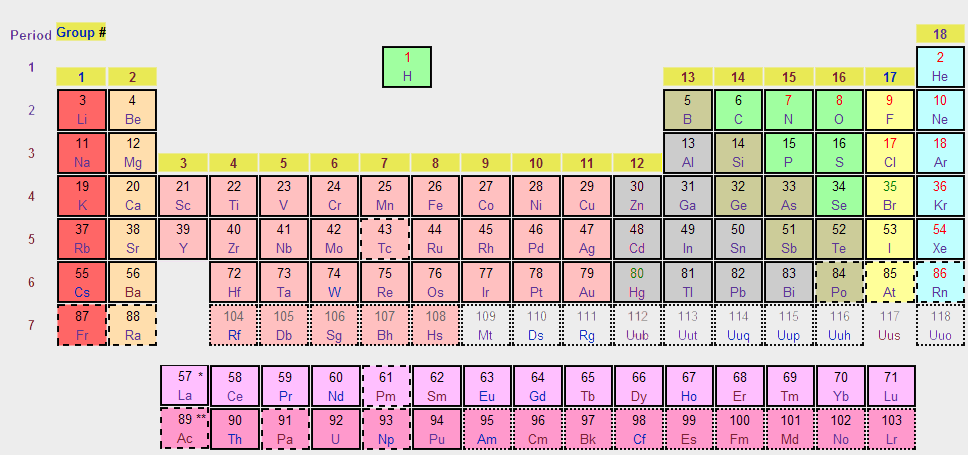
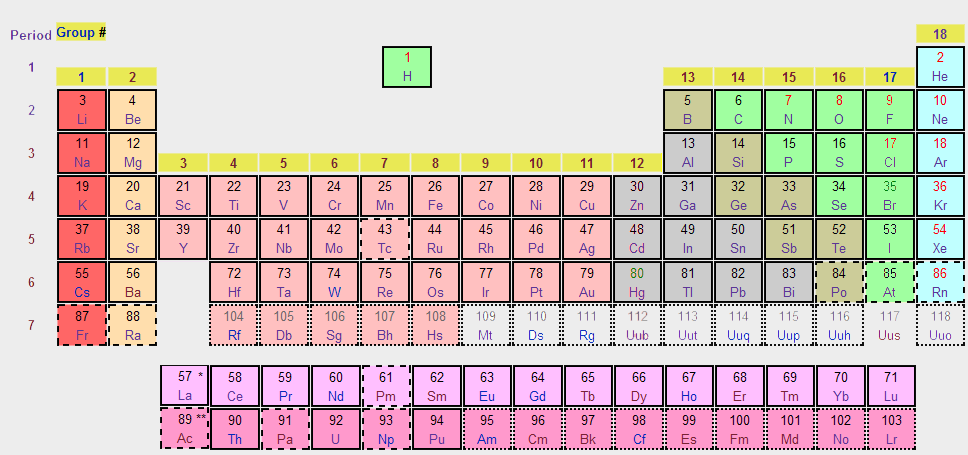
Add files via upload

Changed region(s): [[0.8678, 0.1846, 0.9607, 0.6769]]

diff --git a/help.html b/help.html
@@ -17,35 +17,35 @@
       #colors li {
         display: block;
       }
-      #OJ{
-        background-color: #FFB600;
+      #am{
+        background-color: #FF6661;
       }
-      #YELLATME{
-        background-color: #F3FF00;
+      #aem{
+        background-color: #FFDCAC;
       }
-      #FISHYUM{
-        background-color: #FF928E;
+      #l{
+        background-color: #E3B3E1;
       }
-      #PURPLENURPLE{
-        background-color: #E68EC3;
+      #a{
+        background-color: #F89CCB;
       }
-      #OWWWW{
-        background-color: #BF9197;
+      #tm{
+        background-color: #FFC4C4;
       }
-      #DOUBLEWHAMMYBRO{
-        background-color: #55C2A7;
+      #ptm{
+        background-color: #CFCFD1;
       }
-      #GRASSWINKWINK{
-        background-color: #1DB835;
+      #m{
+        background-color: #CBCD9B;
       }
-      #MYEYESHURT{
-        background-color: #54CC8B;
+      #om{
+        background-color: #9FFDAA;
       }
-      #BLURB{
-        background-color: #17BCC2;
+      #ng{
+        background-color: #B9FAF8;
       }
-      #AAAOAOOOOOOWWWWWWIIIIIIEEE{
-        background-color: #8A8179;
+      #u{
+        background-color: #F1EFF2;
       }
     </style>
   </head>
@@ -73,43 +73,43 @@
       <article name="colors" id="colors">
         <ul>
           <li>
-            <div id="OJ" class="colorbox"><p>Alkali Metals</p></div>
+            <div id="am" class="colorbox"><p>Alkali Metals</p></div>
           </li>
           <br>
           <li>
-            <div id="YELLATME" class="colorbox"><p style="margin-right: 22%">Alkaline earth Metals</p></div>
+            <div id="aem" class="colorbox"><p style="margin-right: 22%">Alkaline earth Metals</p></div>
           </li>
           <br>
           <li>
-            <div id="FISHYUM" class="colorbox"><p>Lanthanoids</p></div>
+            <div id="l" class="colorbox"><p>Lanthanoids</p></div>
           </li>
           <br>
           <li>
-            <div id="PURPLENURPLE" class="colorbox"><p>Actinoids</p></div>
+            <div id="a" class="colorbox"><p>Actinoids</p></div>
           </li>
           <br>
           <li>
-            <div id="OWWWW" class="colorbox"><p>Transition Metals</p></div>
+            <div id="tm" class="colorbox"><p>Transition Metals</p></div>
           </li>
           <br>
           <li>
-            <div id="DOUBLEWHAMMYBRO" class="colorbox"><p style="margin-right: 20%">Post-transition Metals</p></div>
+            <div id="ptm" class="colorbox"><p style="margin-right: 20%">Post-transition Metals</p></div>
           </li>
           <br>
           <li>
-            <div id="GRASSWINKWINK" class="colorbox"><p>Metalloids</p></div>
+            <div id="m" class="colorbox"><p>Metalloids</p></div>
           </li>
           <br>
           <li>
-            <div id="MYEYESHURT" class="colorbox"> <p>Other Nonmetal</p></div>
+            <div id="om" class="colorbox"> <p>Other Nonmetal</p></div>
           </li>
           <br>
           <li>
-            <div id="BLURB" class="colorbox"><p>Noble Gasses</p></div>
+            <div id="ng" class="colorbox"><p>Noble Gasses</p></div>
           </li>
           <br>
           <li>
-            <div id="AAAOAOOOOOOWWWWWWIIIIIIEEE" class="colorbox"><p>Unknown</p></div>
+            <div id="u" class="colorbox"><p>Unknown</p></div>
           </li>
         </ul>
       </article>

diff --git a/siteJS.js b/siteJS.js
@@ -149,34 +149,34 @@ function showSlides(n) {
 
   switch (elements[slideIndex-1].groups) {
     case "Alkali Metals":
-      document.getElementById('elementSymbol').style.backgroundColor = "#FFB600";
+      document.getElementById('elementSymbol').style.backgroundColor = "#FF6661";
       break;
     case "Alkaline Earth Metals":
-      document.getElementById('elementSymbol').style.backgroundColor = "#F3FF00";
+      document.getElementById('elementSymbol').style.backgroundColor = "#FFDCAC";
       break;
     case "Lanthanoids":
-      document.getElementById('elementSymbol').style.backgroundColor = "#FF928E";
+      document.getElementById('elementSymbol').style.backgroundColor = "#E3B3E1";
       break;
     case "Actinoids":
-      document.getElementById('elementSymbol').style.backgroundColor = "#E68EC3";
+      document.getElementById('elementSymbol').style.backgroundColor = "#F89CCB";
       break;
     case "Transition Metals":
-      document.getElementById('elementSymbol').style.backgroundColor = "#BF9197";
+      document.getElementById('elementSymbol').style.backgroundColor = "#FFC4C4";
       break;
     case "Post-Transition Metals":
-      document.getElementById('elementSymbol').style.backgroundColor = "#55C2A7";
+      document.getElementById('elementSymbol').style.backgroundColor = "#CFCFD1";
       break;
     case "Metalloids":
-      document.getElementById('elementSymbol').style.backgroundColor = "#1DB835";
+      document.getElementById('elementSymbol').style.backgroundColor = "#CBCD9B";
       break;
     case "Other nonmetals":
-      document.getElementById('elementSymbol').style.backgroundColor = "#54CC8B";
+      document.getElementById('elementSymbol').style.backgroundColor = "#9FFDAA";
       break;
     case "Noble Gases":
-      document.getElementById('elementSymbol').style.backgroundColor = "#17BCC2";
+      document.getElementById('elementSymbol').style.backgroundColor = "#B9FAF8";
       break;
     case "Unknown":
-      document.getElementById('elementSymbol').style.backgroundColor = "#8A8179";
+      document.getElementById('elementSymbol').style.backgroundColor = "#F1EFF2";
       break;
   }
 }

diff --git a/pt_calc.html b/pt_calc.html
@@ -33,7 +33,7 @@
 					Second Element: <input type="text" id="element2" placeholder="Type in an Element symbol (Case Sensitive)" />
 					<br/>
 					Third Element: <input type="text" id="element3" placeholder="Type in an Element symbol (Optional)" />
-					<button onclick="elementCalc()" style="margin: 5%;" >Try it</button>
+					<button onclick="elementCalc()" style="margin: 5%;" >Combine and Search!</button>
 					<iframe id="result" src="" style="height: 500px; width: 100vw;"></iframe>
 					<br/>
 				</div>
